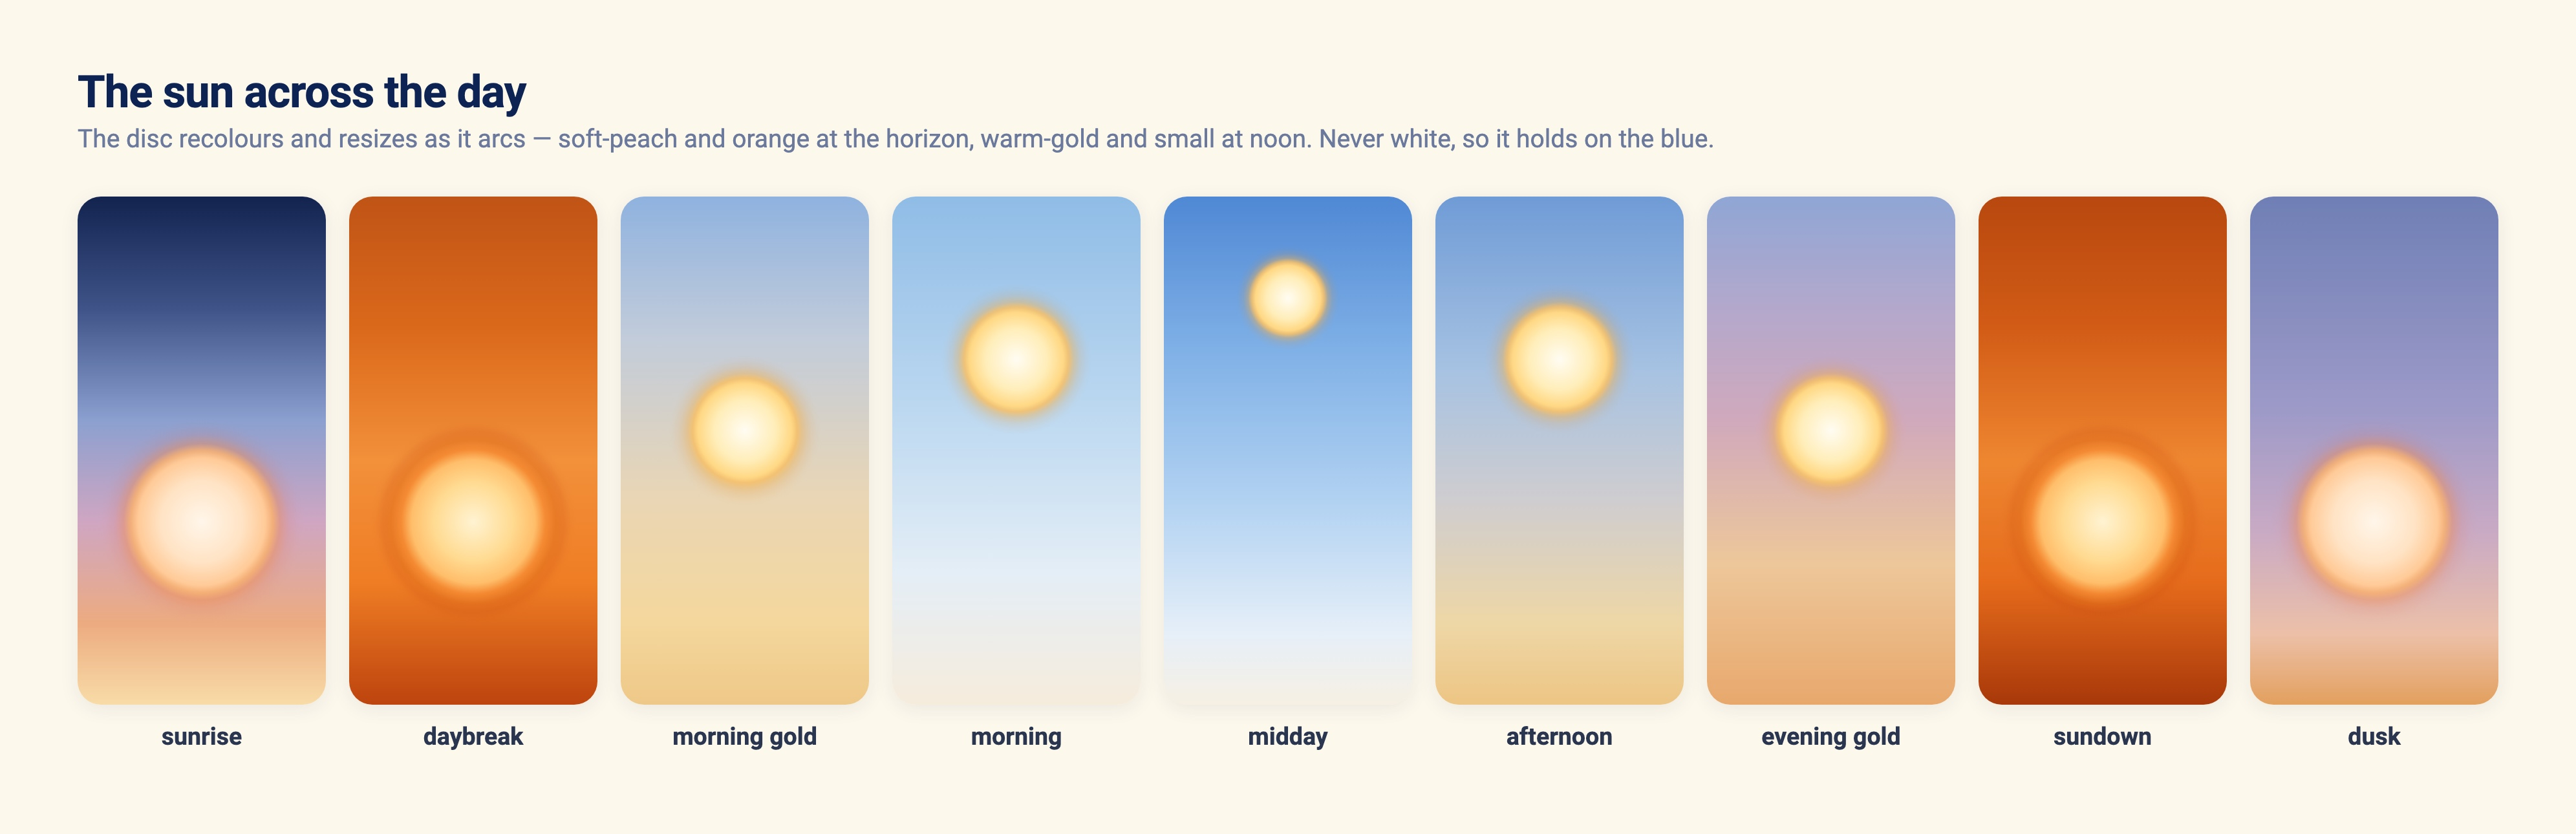
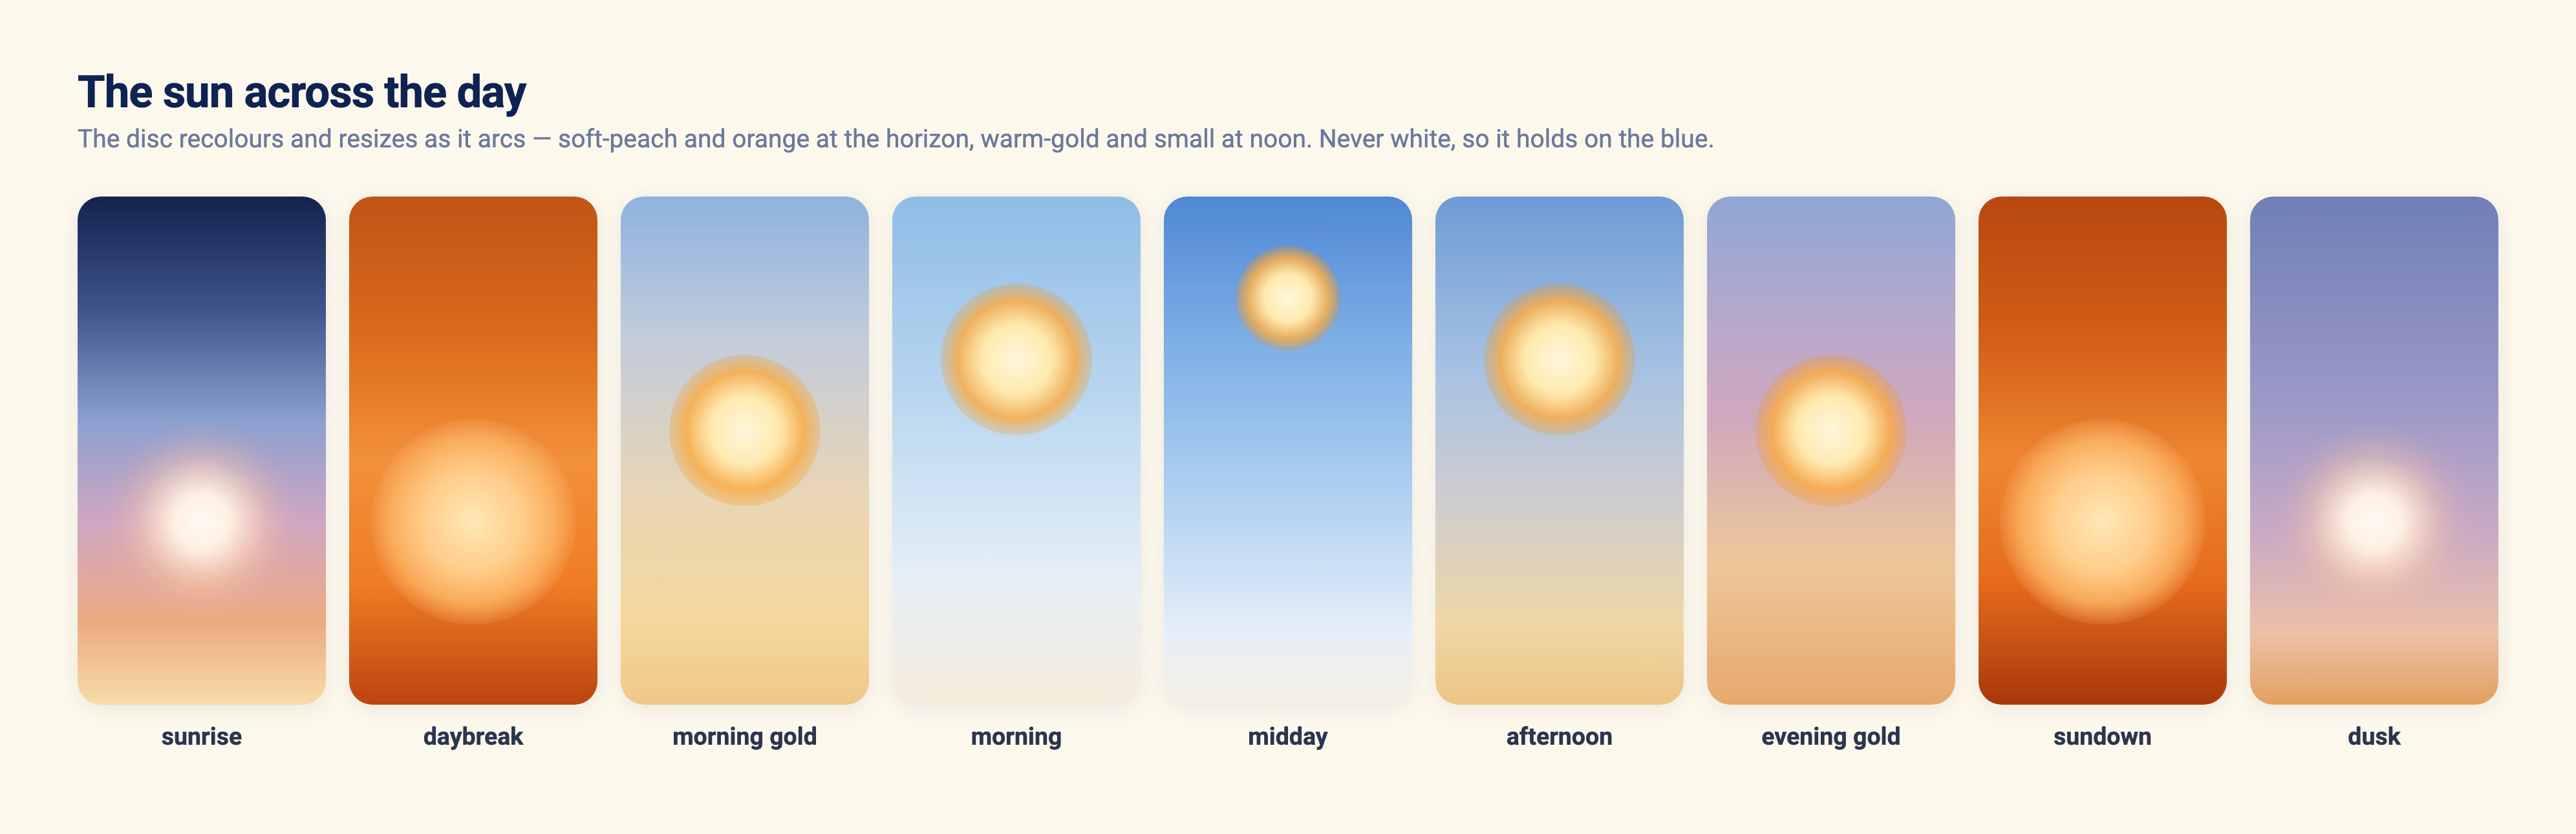
Sun/moon behaviour: arc that never sets, book-page discs, opaque horizon
Refine the day engine's travelling light + range after review, and port it
into the live day.js (previously only in the day-scrub slider card).

Sun (tokens-sun.css):
- warm-gold = the book page's day disc (fades to transparent at 76%, soft
  blur, NO orange ring); used for the whole day.
- orange = the book set-sun with a toned-down amber halo (not red-orange);
  reserved for the fire phases (daybreak/sundown).

Moon (day.js buildLightPaths):
- Never sets. It lives on the RIGHT (text goes left), follows a shallow arc
  peaking at the top centre-right, and the daylight simply WASHES IT OUT at
  dawn (drifting left) — it fades back in at dusk, rising from the lower-
  right. No more diving behind the range.

Range / horizon:
- .day-range z-index above the celestial so the sun sets BEHIND the fore-
  ground (generic — works for any element, not just mountains); mountains
  stay opaque at the warm ends so the sun never shows through them; the
  day-scrub card's range palette catches the orange at daybreak/sundown.

Also: design-system consistency pass — grad-dark reframed as footer/drawer
chrome (not a night sky), "night" vocab → dusk, new Sun & Moon disc card,
dual-dark note on semantic-tokens; regenerated JPEG exports.

diff --git a/design-system/cards/sky-motion/day-scrub/index.html b/design-system/cards/sky-motion/day-scrub/index.html
@@ -31,14 +31,10 @@
     <output id="phase" style="font: 600 0.72rem/1 var(--font-body); letter-spacing:0.12em; text-transform:uppercase; color:#fffcf6; min-width:9ch">pre-dawn</output>
     <input id="scrub" type="range" min="0" max="1000" value="0" style="flex:1; accent-color:#f9ac46" aria-label="Scrub the day" />
   </div>
-  <p style="font-size:0.7rem; color:rgb(255 252 246 / 0.75); margin-top:0.45rem">One day, thirteen phases — the real sky, sun, and moon, scrubbed by hand. The sun recolours and resizes as it arcs; the moon hands over at dawn and dusk.</p>
+  <p style="font-size:0.7rem; color:rgb(255 252 246 / 0.75); margin-top:0.45rem">One day, thirteen phases — the real sky, sun, and moon, scrubbed by hand. The sun rises and sets behind the horizon; the moon never sets — it drifts, its crescent slowly turning, and the daylight simply washes it out.</p>
 </div>
 
 <script>
-  const PALETTE = JSON.parse('<!-- @palette-json -->')
-  const PALETTE_AT = [0, 0.16, 0.34, 0.78, 0.92]
-  const VARS = { alpenglow: '--alpenglow', snowShade: '--snow-shade', far: '--range-far', mid: '--range-mid', near: '--range-near', haze: '--haze' }
-
   const PHASES = ['predawn', 'blue-hour', 'sunrise', 'daybreak', 'morning-gold', 'morning', 'midday', 'afternoon', 'evening-gold', 'sundown', 'dusk', 'twilight', 'post-dusk']
   const AT = [0, 0.06, 0.13, 0.20, 0.28, 0.35, 0.44, 0.53, 0.61, 0.68, 0.76, 0.84, 0.90]
   const FADE = 0.05
@@ -69,24 +65,52 @@
     return out
   }
 
-  // Sun disc colour + size (absolute scale) along the visible arc.
+  // Sun disc colour + size along the arc. Smaller at the horizon than
+  // before (was dominant); soft-peach is a diffuse bloom, the orange fire
+  // ball keeps its crisp edge.
   const SUN = [
-    { p: 0.13, peach: 1, gold: 0, orange: 0, size: 3.0 },
-    { p: 0.20, peach: 0, gold: 0, orange: 1, size: 3.0 },
-    { p: 0.28, peach: 0, gold: 1, orange: 0, size: 2.4 },
-    { p: 0.44, peach: 0, gold: 1, orange: 0, size: 1.9 },
-    { p: 0.61, peach: 0, gold: 1, orange: 0, size: 2.4 },
-    { p: 0.68, peach: 0, gold: 0, orange: 1, size: 3.0 },
-    { p: 0.76, peach: 1, gold: 0, orange: 0, size: 3.0 },
+    { p: 0.13, peach: 0, gold: 1, orange: 0, size: 2.5 },   // sunrise (soft gold)
+    { p: 0.20, peach: 0, gold: 0, orange: 1, size: 2.9 },   // daybreak (fire ball, orange sky)
+    { p: 0.28, peach: 0, gold: 1, orange: 0, size: 2.7 },   // morning gold
+    { p: 0.44, peach: 0, gold: 1, orange: 0, size: 2.3 },   // midday
+    { p: 0.53, peach: 0, gold: 1, orange: 0, size: 2.5 },   // afternoon
+    { p: 0.61, peach: 0, gold: 1, orange: 0, size: 2.6 },   // evening gold
+    { p: 0.66, peach: 0, gold: 0, orange: 1, size: 2.6 },   // sundown (fire ball, orange sky)
+    { p: 0.73, peach: 0, gold: 0, orange: 1, size: 2.7 },   // orange holds through the orange sky
+    { p: 0.78, peach: 0, gold: 1, orange: 0, size: 2.5 },   // dusk (soft gold)
   ]
-  // Moon face (waning silver ↔ waxing cream) + size.
+  // Moon face (silver waning ↔ cream waxing) + size. The face swaps mid-day
+  // while the moon is washed out and invisible.
   const MOON = [
     { p: 0, waning: 1, waxing: 0, size: 1.0 },
     { p: 0.30, waning: 1, waxing: 0, size: 1.0 },
-    { p: 0.5, waning: 0, waxing: 0, size: 0.83 },
+    { p: 0.5, waning: 0, waxing: 0, size: 0.82 },
     { p: 0.76, waning: 0, waxing: 1, size: 0.66 },
     { p: 1, waning: 0, waxing: 1, size: 0.66 },
   ]
+
+  // The range palette per phase — snow/alpenglow + the three depth bodies +
+  // haze. It CATCHES THE ORANGE at daybreak (0.20) and sundown (0.68).
+  const RANGE = [
+    { p: 0.00, a: '#cdd8ee', s: '#46527d', f: '#2a3560', m: '#1a2348', n: '#0d1330', h: '#4a5285' }, // pre-dawn moonlit
+    { p: 0.13, a: '#ffd08a', s: '#7d6a92', f: '#5a4f80', m: '#382a50', n: '#1b1533', h: '#a06a88' }, // sunrise rose-gold
+    { p: 0.20, a: '#ffb15a', s: '#b5613a', f: '#9c4a2a', m: '#6e341f', n: '#46220f', h: '#d9631a' }, // daybreak ORANGE
+    { p: 0.30, a: '#ffe9c2', s: '#b09ab8', f: '#c3b2cc', m: '#a390b0', n: '#71618c', h: '#f4e4d0' }, // morning-gold
+    { p: 0.44, a: '#fff6e8', s: '#a9bcd9', f: '#d4dce9', m: '#9fb0cc', n: '#6b7da3', h: '#eef2f8' }, // midday pale
+    { p: 0.60, a: '#ffe4b0', s: '#b09ab0', f: '#cbb0c0', m: '#a68ca8', n: '#75608a', h: '#f2ddc4' }, // evening-gold
+    { p: 0.68, a: '#ff9d4a', s: '#a8552f', f: '#8f4325', m: '#642f1c', n: '#3f1f0e', h: '#c85416' }, // sundown ORANGE
+    { p: 0.74, a: '#ff9d4a', s: '#a8552f', f: '#8f4325', m: '#642f1c', n: '#3f1f0e', h: '#c85416' }, // hold orange through the orange sky
+    { p: 0.82, a: '#efc4d3', s: '#8f86b0', f: '#8a82b0', m: '#6b6494', n: '#4a4470', h: '#b7a8cc' }, // dusk lilac
+    { p: 0.90, a: '#b3bcdd', s: '#5a6690', f: '#2f4171', m: '#1c2b54', n: '#0d2354', h: '#46527f' }, // post-dusk navy-silver
+    { p: 1.00, a: '#b3bcdd', s: '#5a6690', f: '#2f4171', m: '#1c2b54', n: '#0d2354', h: '#46527f' },
+  ]
+  const RVARS = { a: '--alpenglow', s: '--snow-shade', f: '--range-far', m: '--range-mid', n: '--range-near', h: '--haze' }
+  function paintRange(p) {
+    let a = RANGE[0], b = RANGE[RANGE.length - 1]
+    for (let i = 0; i < RANGE.length - 1; i++) if (p >= RANGE[i].p && p <= RANGE[i + 1].p) { a = RANGE[i]; b = RANGE[i + 1]; break }
+    const t = clamp01((p - a.p) / ((b.p - a.p) || 1))
+    for (const k in RVARS) range.style.setProperty(RVARS[k], hexLerp(a[k], b[k], t))
+  }
 
   function render(p) {
     // Sky: later layers stack above earlier — fading each IN cross-fades
@@ -99,45 +123,51 @@
     AT.forEach((a, i) => { if (p >= a) cur = i })
     phaseOut.textContent = PHASES[cur].replace('-', ' ')
 
-    // Range palette lerp across keyframes
-    let ai = 0
-    for (let i = 0; i < PALETTE_AT.length - 1; i++) if (p >= PALETTE_AT[i]) ai = i
-    const t = clamp01((p - PALETTE_AT[ai]) / (PALETTE_AT[ai + 1] - PALETTE_AT[ai] || 1))
-    for (const [k, v] of Object.entries(VARS)) range.style.setProperty(v, hexLerp(PALETTE[ai][k], PALETTE[Math.min(ai + 1, 4)][k], t))
-    const dayIn = clamp01((p - 0.3) / FADE), dayOut = clamp01((p - 0.72) / FADE)
-    range.style.opacity = 1 - 0.84 * dayIn * (1 - dayOut)
+    // Range: catches the phase light, and HAZES away through the bright
+    // middle — symmetric, so sunrise fades the peaks just like sunset does;
+    // near-invisible at midday.
+    paintRange(p)
+    // Opaque at the warm ends so the sun sets BEHIND the peaks (never
+    // through them); hazes away only around the bright middle, near-
+    // invisible at midday.
+    const fadeMid = clamp01(1 - Math.abs(p - 0.44) / 0.20)
+    range.style.opacity = 1 - 0.85 * fadeMid
 
     const vw = innerWidth / 100, vh = innerHeight / 100
 
-    // Sun: visible sunrise→dusk, arcing right→over→left, recolouring + resizing
+    // Sun: rises right → over → sets left; recolours + resizes; scale is
+    // INSIDE the transform so translate stays unscaled.
     const sunVis = clamp01((p - 0.11) / 0.03) * clamp01((0.79 - p) / 0.03)
     const st = clamp01((p - 0.13) / (0.76 - 0.13))
-    sun.style.transform = 'translate(' + (84 - 70 * st) * vw + 'px,' + (100 - 92 * Math.sin(Math.PI * st)) * vh + 'px)'
-    sun.style.opacity = sunVis
     const s = sample(SUN, p, ['peach', 'gold', 'orange', 'size'])
+    sun.style.transform = 'translate(' + (84 - 70 * st) * vw + 'px,' + (100 - 92 * Math.sin(Math.PI * st)) * vh + 'px) scale(' + s.size + ')'
+    sun.style.opacity = sunVis
     sunD.peach.style.opacity = s.peach
     sunD.gold.style.opacity = s.gold
     sunD.orange.style.opacity = s.orange
-    sun.style.scale = String(s.size)
 
-    // Moon: morning waning sets down-LEFT as the sun rises; evening waxing
-    // rises on the RIGHT — both briefly on screen at the handovers.
-    let mx, my, mvis
-    if (p < 0.42) {
-      const ms = clamp01(p / 0.16)
-      mx = 72 - 56 * ms; my = 16 + 86 * ms
-      mvis = clamp01((0.17 - p) / 0.05)
-    } else {
-      const ms = clamp01((p - 0.70) / 0.2)
-      mx = 80 - 6 * ms; my = 92 - 62 * ms
-      mvis = clamp01((p - 0.70) / 0.05)
-    }
-    moon.style.transform = 'translate(' + mx * vw + 'px,' + my * vh + 'px)'
-    moon.style.opacity = mvis
+    // Moon: it NEVER sets. It stays high, drifts across the sky and its
+    // crescent slowly turns; the sun's light simply washes it out at dawn
+    // (a brief FLARE, then fade) and it returns at dusk the same way.
+    const morning = p < 0.5
+    const dawnFade = clamp01((p - 0.09) / 0.13)   // 0 dark → 1 washed out
+    const duskFade = clamp01((p - 0.63) / 0.13)   // 0 → 1 as it returns
+    const baseVis = morning ? 1 - dawnFade : duskFade
+    const flareC = morning ? 0.13 : 0.72
+    const flare = Math.exp(-Math.pow((p - flareC) / 0.045, 2)) * 0.3
+    // The moon follows an ARC and always travels LEFT (like the sun, but
+    // shifted right and it fades instead of setting). It RISES from the
+    // lower-right and peaks at the top centre-right (dusk); it SETS by
+    // travelling on toward the left and fading away (dawn). Peak = (56,14).
+    let mx, my, rot
+    if (morning) { const d = clamp01(p / 0.24); mx = 56 - 16 * d; my = 14 + 14 * d; rot = 2 + 12 * d }   // sets: peak → left + fade
+    else { const d = clamp01((p - 0.62) / 0.38); mx = 80 - 24 * d; my = 52 - 38 * d; rot = -10 + 12 * d }  // rises: lower-right → peak
     const m = sample(MOON, p, ['waning', 'waxing', 'size'])
+    moon.style.transform = 'translate(' + mx * vw + 'px,' + my * vh + 'px) rotate(' + rot + 'deg) scale(' + m.size + ')'
+    moon.style.opacity = clamp01(baseVis + flare)
+    moon.style.filter = 'brightness(' + (1 + flare) + ')'
     moonD.waning.style.opacity = m.waning
     moonD.waxing.style.opacity = m.waxing
-    moon.style.scale = String(m.size)
   }
 
   const scrub = document.getElementById('scrub')

diff --git a/src/js/modules/day.js b/src/js/modules/day.js
@@ -37,11 +37,13 @@ function computePhasePositions() {
   return positions
 }
 
-/* Two travelers, one circle. The moon arcs down-LEFT and sets behind
-   the range as the sun rises from behind the range on the RIGHT; the
-   sun arcs over the day and sets LEFT as night lands, and the moon
-   returns from the right. Every segment is monotonic in x and y: no
-   bounce, no hovering. x in vw, y in vh, o = opacity. */
+/* Two travellers. The SUN rises from behind the range on the RIGHT, arcs
+   over the day, and sets behind the range on the LEFT as night lands. The
+   MOON never sets: it lives on the RIGHT (text goes left) and follows a
+   shallow arc peaking at the top centre-right — the daylight simply washes
+   it out at dawn (drifting left as it fades) and it fades back in at dusk,
+   rising from the lower-right. It never dips to the horizon. x in vw, y in
+   vh, o = opacity. */
 function buildLightPaths(at) {
   const sunriseAt = at.sunrise ?? 0.08
   const sunriseEnd = (at.morning ?? 0.2) + FADE
@@ -56,15 +58,13 @@ function buildLightPaths(at) {
 
   return {
     moon: [
-      { p: 0, x: 72, y: 16, o: 1 },
-      { p: sunriseAt, x: 58, y: 34, o: 1 },
-      { p: crossover, x: 36, y: 62, o: 1 },
-      { p: sunriseEnd, x: 16, y: 96, o: 1 },
-      { p: Math.min(sunriseEnd + 0.02, nightAt - 0.02), x: 15, y: 102, o: 0 },
-      { p: nightAt, x: 82, y: 92, o: 0 },
-      { p: Math.min(nightAt + 0.02, 0.99), x: 80, y: 84, o: 1 },
-      { p: nightEnd, x: 74, y: 34, o: 1 },
-      { p: 1, x: 72, y: 18, o: 1 },
+      { p: 0, x: 56, y: 14, o: 1 },                                 // pre-dawn: peak, top centre-right, bright
+      { p: sunriseAt, x: 50, y: 18, o: 0.85 },                      // washing out, drifting left
+      { p: sunriseEnd, x: 42, y: 26, o: 0 },                        // faded into daylight (stays HIGH — never sets)
+      { p: at.golden ?? 0.58, x: 42, y: 26, o: 0 },                 // gone through the bright middle
+      { p: duskAt, x: 80, y: 50, o: 0 },                            // evening: reappears low on the RIGHT
+      { p: nightAt, x: 62, y: 24, o: 1 },                           // rising toward the peak
+      { p: 1, x: 56, y: 14, o: 1 },                                 // night: at the peak
     ],
     sun: [
       { p: 0, x: 84, y: 102, o: 0 },
@@ -154,23 +154,22 @@ const RANGE_VAR_NAMES = {
   haze: '--haze',
 }
 
-/* The sun's disc colour + size along its arc (tokens-sun.css). Colours
-   cross-fade between three stacked discs; size is a scale on the sun
-   container. On the homepage's 7-phase slice the disc is soft-peach at
-   the horizon bookends (sunrise / dusk) and warm-gold through the day,
-   largest at the horizon and smallest at midday. The orange fire disc is
-   reserved for daybreak / sundown, which the homepage has no section for. */
-const SUN_SIZES = { small: 1.9, medium: 2.4, large: 3.0 }
+/* The sun's disc colour + size along its arc (tokens-sun.css). The
+   homepage's 7-phase slice has no fire phase, so the sun is warm-gold
+   throughout (the book-page day disc: soft halo, no ring); largest at the
+   horizon bookends, smallest at midday. The orange fire disc is reserved
+   for daybreak / sundown, which the homepage has no section for. */
+const SUN_SIZES = { small: 2.3, medium: 2.5, large: 2.7 }
 const SUN_FIELDS = ['peach', 'gold', 'orange', 'scale']
 
 function buildSunLook(at) {
   const S = SUN_SIZES
   return [
-    { p: at.sunrise ?? 0.08, peach: 1, gold: 0, orange: 0, scale: S.large },
+    { p: at.sunrise ?? 0.08, peach: 0, gold: 1, orange: 0, scale: S.large },
     { p: at.morning ?? 0.2, peach: 0, gold: 1, orange: 0, scale: S.medium },
     { p: at.midday ?? 0.35, peach: 0, gold: 1, orange: 0, scale: S.small },
     { p: at.golden ?? 0.58, peach: 0, gold: 1, orange: 0, scale: S.medium },
-    { p: at.dusk ?? 0.72, peach: 1, gold: 0, orange: 0, scale: S.large },
+    { p: at.dusk ?? 0.72, peach: 0, gold: 1, orange: 0, scale: S.large },
   ]
 }
 
@@ -256,7 +255,11 @@ export function init() {
     if (sunDiscs.peach) sunDiscs.peach.style.opacity = s.peach
     if (sunDiscs.gold) sunDiscs.gold.style.opacity = s.gold
     if (sunDiscs.orange) sunDiscs.orange.style.opacity = s.orange
-    sunEl.style.scale = String(s.scale)
+    // Fold size into the transform (gsap merges with the x/y from
+    // applyLight → `translate(x,y) scale(s)`). NOT the CSS `scale`
+    // property, which sits outside `transform` and would scale the
+    // translate distance, flinging the disc off-position.
+    gsap.set(sunEl, { scale: s.scale })
   }
 
   // The moon's face (waning silver ↔ waxing cream cross-fade) and its size.
@@ -265,7 +268,7 @@ export function init() {
     const m = sampleMoonLook(look, p)
     if (moonDiscs.waning) moonDiscs.waning.style.opacity = m.waning
     if (moonDiscs.waxing) moonDiscs.waxing.style.opacity = m.waxing
-    moonEl.style.scale = String(m.scale)
+    gsap.set(moonEl, { scale: m.scale })
   }
 
   const applyRangePalette = (pal) => {

diff --git a/design-system/cards/sky-motion/sun-moon/index.html b/design-system/cards/sky-motion/sun-moon/index.html
@@ -1,0 +1,26 @@
+<!-- @dsCard group="Sky & Motion" -->
+<h1>Sky &amp; Motion · sun &amp; moon</h1>
+<p class="ds-note" style="margin-top:0">The travelling light, from the real <code>--sun-*</code> / <code>--moon-*</code> tokens. The sun is a crisp disc that recolours and resizes as it arcs — <strong>never white</strong>, so it holds on the blue midday sky. The moon is a thin crescent whose glow follows its shape, with two tints and two mirrored orientations.</p>
+
+<h2 style="font-size:var(--step-0); margin:1.4rem 0 0.6rem">Sun — three disc colours</h2>
+<div style="display:grid; grid-template-columns:repeat(auto-fill,minmax(150px,1fr)); gap:0.7rem">
+  <div><div style="position:relative;height:150px;border-radius:9px;overflow:hidden;border:1px solid var(--rule-soft);background:var(--sky-midday)"><div style="position:absolute;top:50%;left:50%;width:88px;height:88px;border-radius:50%;transform:translate(-50%,-50%);background:var(--sun-warm-gold)"></div></div><code>warm-gold</code> <span style="color:var(--ink-faint);font-size:0.7rem">· day sun</span></div>
+  <div><div style="position:relative;height:150px;border-radius:9px;overflow:hidden;border:1px solid var(--rule-soft);background:var(--sky-sunrise)"><div style="position:absolute;top:50%;left:50%;width:104px;height:104px;border-radius:50%;transform:translate(-50%,-50%);background:var(--sun-soft-peach)"></div></div><code>soft-peach</code> <span style="color:var(--ink-faint);font-size:0.7rem">· sunrise / dusk</span></div>
+  <div><div style="position:relative;height:150px;border-radius:9px;overflow:hidden;border:1px solid var(--rule-soft);background:var(--sky-daybreak)"><div style="position:absolute;top:50%;left:50%;width:96px;height:96px;border-radius:50%;transform:translate(-50%,-50%);background:var(--sun-orange)"></div></div><code>orange</code> <span style="color:var(--ink-faint);font-size:0.7rem">· fire ball</span></div>
+</div>
+
+<h2 style="font-size:var(--step-0); margin:1.6rem 0 0.6rem">Moon — two tints, mirrored orientation</h2>
+<div style="display:grid; grid-template-columns:repeat(auto-fill,minmax(150px,1fr)); gap:0.7rem">
+  <div><div style="position:relative;height:150px;border-radius:9px;overflow:hidden;border:1px solid var(--rule-soft);background:var(--sky-predawn)"><div style="position:absolute;top:44%;left:50%;width:86px;height:86px;border-radius:50%;transform:translate(-50%,-50%);background:var(--moon-silver);-webkit-mask-image:var(--moon-mask-waning);mask-image:var(--moon-mask-waning);filter:var(--moon-glow-silver)"></div></div><code>silver · waning</code> <span style="color:var(--ink-faint);font-size:0.7rem">· pre-dawn, lit toward the rising sun</span></div>
+  <div><div style="position:relative;height:150px;border-radius:9px;overflow:hidden;border:1px solid var(--rule-soft);background:var(--sky-post-dusk)"><div style="position:absolute;top:50%;left:50%;width:66px;height:66px;border-radius:50%;transform:translate(-50%,-50%);background:var(--moon-cream);-webkit-mask-image:var(--moon-mask-waxing);mask-image:var(--moon-mask-waxing);filter:var(--moon-glow-cream)"></div></div><code>cream · waxing</code> <span style="color:var(--ink-faint);font-size:0.7rem">· post-dusk, lit toward the set sun</span></div>
+</div>
+
+<table class="ds-table" style="margin-top:1.5rem">
+<tbody>
+<tr><td><strong>Never white</strong></td><td>The sun keeps a warm-white core in an amber body, so it reads on the blue midday sky (white washes out).</td></tr>
+<tr><td><strong>Crisp disc</strong></td><td>Bright hot core → solid body → glow that blends to nothing. No concentric rings, clean edge.</td></tr>
+<tr><td><strong>Crescent glow</strong></td><td>The moon&rsquo;s glow follows the crescent (a drop-shadow on the masked disc), never a round halo.</td></tr>
+<tr><td><strong>Mirrored</strong></td><td>The lit side always faces the sun: <code>waning</code> (lit right) opens the day toward the rising sun; <code>waxing</code> (lit left) closes it toward the set sun.</td></tr>
+<tr><td><strong>Size</strong></td><td>The sun is small at midday, large at the horizon; the moon is full at pre-dawn, a quiet ~65% companion at the close. Driven along the arc in <code>day.js</code>.</td></tr>
+</tbody>
+</table>

diff --git a/src/styles/components/day.css b/src/styles/components/day.css
@@ -130,16 +130,10 @@
 
   .celestial--sun {
     opacity: 0;
-    /* Static default size. day.js overrides `scale` inline per phase
-       (small midday → large horizon); the `scale` property composes with
-       the gsap translate on `transform` without conflict. */
-    scale: 2.4;
-  }
-
-  /* Static default size; day.js overrides `scale` inline per phase (full
-     hero at pre-dawn → quiet ~65% companion at the close). */
-  .celestial--moon {
-    scale: 1;
+    /* Size is folded into the transform by day.js (translate … scale(…)),
+       NOT the CSS `scale` property — the standalone `scale` property is
+       applied OUTSIDE `transform` and would multiply the translate
+       distance by the scale factor, throwing the disc off-position. */
   }
 
   /* Two stacked crescents (tokens-moon.css); day.js cross-fades their
@@ -173,6 +167,7 @@
      no data-sun) the warm-gold day sun shows by default. */
   .celestial__sun {
     background: var(--sun-warm-gold);
+    filter: blur(0.5px); /* book-page softness — no hard disc edge */
   }
   .celestial__sun[data-sun='soft-peach'] {
     background: var(--sun-soft-peach);
@@ -203,7 +198,11 @@
     position: fixed;
     inset-inline: 0;
     bottom: 0;
-    z-index: 1; /* after the celestial elements in the DOM: the light rises BEHIND the peaks */
+    /* Above the celestial (z-index:1) so the sun/moon set BEHIND the
+       foreground — regardless of DOM order. This is the generic horizon:
+       any page's foreground element (range, water, dunes, skyline) sits
+       here, in front of the travelling light. */
+    z-index: 2;
     pointer-events: none;
     will-change: opacity;
 

diff --git a/src/styles/tokens-sun.css b/src/styles/tokens-sun.css
@@ -20,8 +20,16 @@
      grows as it nears the horizon.
      ===================================================================== */
   :root {
-    --sun-warm-gold: radial-gradient(circle closest-side, #fffcf2 0%, #ffeeba 40%, #ffd884 62%, rgb(245 192 106 / 0.9) 69%, rgb(238 174 78 / 0.42) 76%, rgb(232 154 52 / 0.14) 85%, rgb(229 145 40 / 0.03) 94%, transparent 100%);
-    --sun-soft-peach: radial-gradient(circle closest-side, #fff6ea 0%, #ffe3c4 40%, #ffca97 62%, rgb(246 176 114 / 0.9) 69%, rgb(236 136 80 / 0.42) 76%, rgb(226 120 90 / 0.14) 85%, rgb(226 120 90 / 0.03) 94%, transparent 100%);
-    --sun-orange: radial-gradient(circle closest-side, #fff3d2 0%, #ffdb92 38%, #ffbe6a 60%, rgb(245 140 52 / 0.92) 70%, rgb(224 110 28 / 0.5) 80%, rgb(200 72 16 / 0.18) 88%, rgb(200 72 16 / 0.03) 95%, transparent 100%);
+    /* The book page's day sun — proven: fades to transparent at 76% so the
+       disc is compact with a soft halo and NO hard ring. */
+    --sun-warm-gold: radial-gradient(circle, #fff7dd 0%, #ffe9ae 32%, rgb(249 172 70 / 0.85) 55%, rgb(242 142 7 / 0.22) 70%, transparent 76%);
+    /* Soft-peach is DIFFUSE (not a crisp disc): a gentle warm bloom with a
+       smooth opacity falloff and no hard body edge, so at sunrise/dusk it
+       melts into a cool sky instead of reading as a ringed disk. (The
+       orange fire ball keeps its crisp edge for daybreak/sundown.) */
+    --sun-soft-peach: radial-gradient(circle closest-side, #fffaf4 0%, #fff0e4 26%, rgb(255 226 200 / 0.66) 46%, rgb(252 206 172 / 0.36) 63%, rgb(248 190 162 / 0.14) 80%, rgb(245 185 160 / 0.04) 92%, transparent 100%);
+    /* Warm orange disc, but the HALO is toned down — a soft amber glow
+       (not a red-orange ring), fading to transparent at 76%. */
+    --sun-orange: radial-gradient(circle, #ffe8b6 0%, #ffcd8a 34%, rgb(252 184 104 / 0.8) 56%, rgb(248 178 118 / 0.16) 70%, transparent 76%);
   }
 }

diff --git a/src/styles/tokens.css b/src/styles/tokens.css
@@ -60,7 +60,10 @@
     --c-seal-light: #f1dc83;
     --c-seal-bright: #fff5a8;
 
-    /* ---- Locked gradients (135°) ----------------------------------- */
+    /* ---- Locked gradients (135°) -----------------------------------
+       --grad-dark is the dark UI-chrome surface (footer, drawer menu) —
+       solid brand navy. The SKY's dark is never black: it comes from the
+       Sky Scale (--sky-post-dusk), not from here. */
     --grad-light: linear-gradient(135deg, #ffffff, #fffdf9, #fff8f5);
     --grad-dark: linear-gradient(135deg, #0d2354, #071938, #05152d);
     --grad-gold: linear-gradient(135deg, #f9ac46, #f59700, #e2513c);

diff --git a/design-system/cards/colors/gradients/index.html b/design-system/cards/colors/gradients/index.html
@@ -1,4 +1,4 @@
 <!-- @dsCard group="Colors" -->
 <h1>Colors · locked gradients</h1>
 <!-- @tokens gradients -->
-<p class="ds-note">All three gradients are locked at 135°. Light for day surfaces, dark for night fields, gold reserved for brand moments (progress tracks, imagery placeholders).</p>
+<p class="ds-note">Three gradients locked at 135°. <code>--grad-light</code> for day surfaces; <code>--grad-dark</code> is the brand-navy <strong>UI-chrome</strong> surface (footer, drawer menu), built from the dark brand blues; <code>--grad-gold</code> for brand moments (progress tracks, imagery placeholders). The <strong>sky&rsquo;s</strong> dark is never black — it comes from the Sky Scale (<code>--sky-post-dusk</code>), not from <code>--grad-dark</code>.</p>

diff --git a/design-system/cards/colors/semantic-tokens/index.html b/design-system/cards/colors/semantic-tokens/index.html
@@ -6,4 +6,4 @@
 <!-- @tokens semantic -->
 </tbody>
 </table>
-<p class="ds-note">Components consume only these semantic tokens. The dusk theme flips them once at the dusk threshold — ink and sky can never disagree.</p>
+<p class="ds-note">Components consume only these semantic tokens. On the live site the day engine flips them via <code>body[data-phase='dark']</code> (light-on-dark ink <code>#f7f3e8</code>) in lockstep with the sky, so ink and sky can never disagree. <code>[data-theme='dusk']</code> shown here is the equivalent static theme (ink <code>#fffcf6</code>) — same intent, a fixed swatch rather than the scrubbed flip.</p>

diff --git a/design-system/cards/components/work-route/index.html b/design-system/cards/components/work-route/index.html
@@ -12,4 +12,4 @@
     <a class="btn" href="#">Start a conversation</a>
   </div>
 </div>
-<p class="ds-note">Rule-delimited rows; three columns at ≥900px (title / description / action). Lives on the night phase — shown here in light for structure.</p>
+<p class="ds-note">Rule-delimited rows; three columns at ≥900px (title / description / action). Lives on the dusk phase — shown here in light for structure.</p>